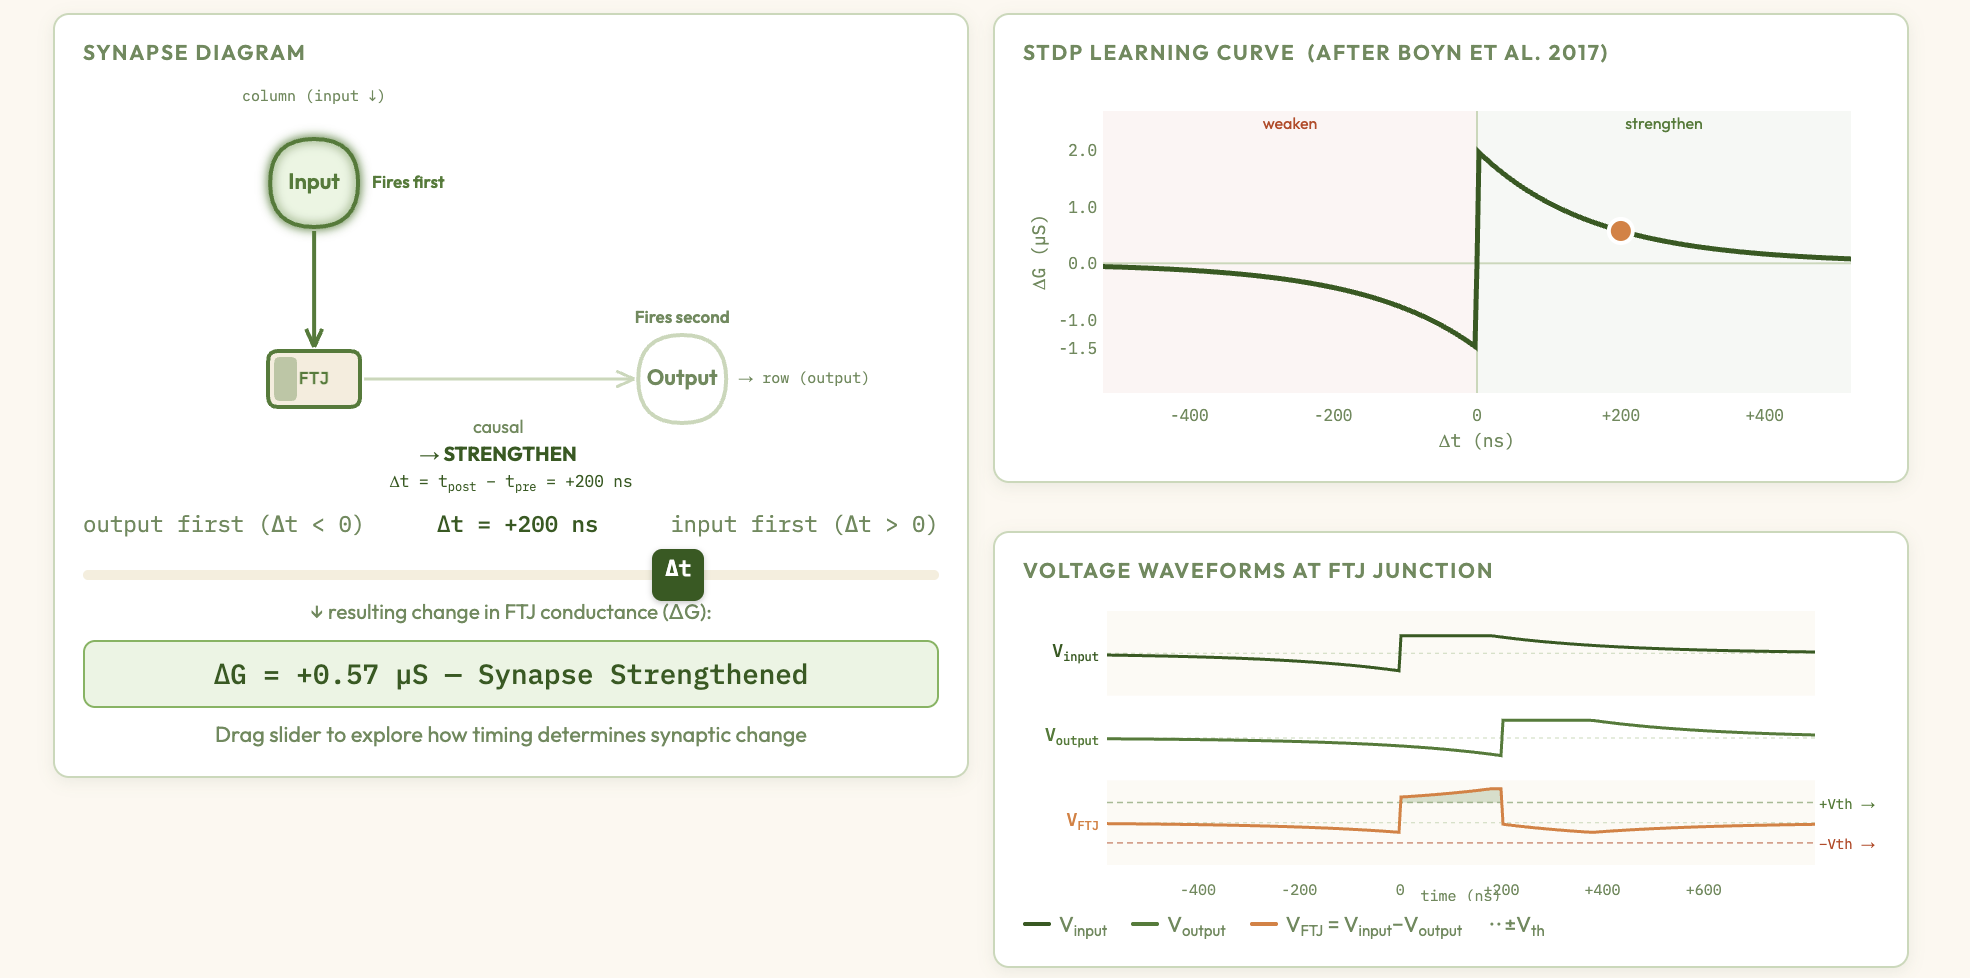
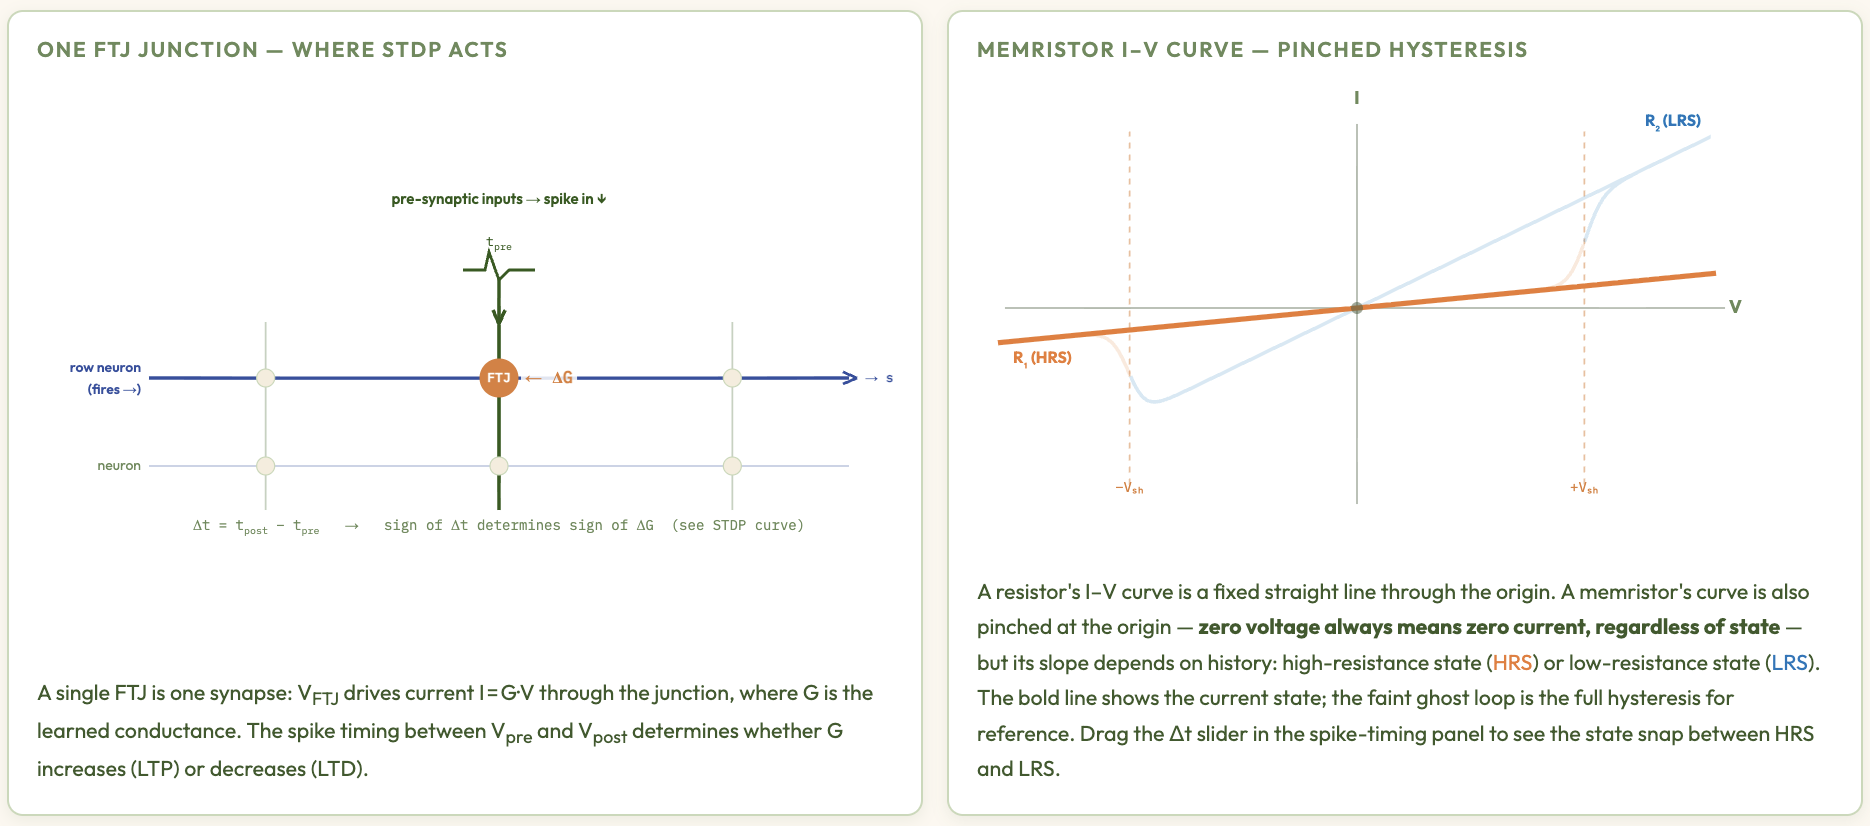
Update memristor preview image.

diff --git a/memristors/memristor_stdp_array.html b/memristors/memristor_stdp_array.html
@@ -11,8 +11,8 @@
 <meta property="og:title" content="Ferroelectric Memristor Synapses &amp; Crossbar Learning — interactive explainer">
 <meta property="og:description" content="Explore how ferroelectric memristor synapses in a crossbar array implement Spike-Timing-Dependent Plasticity (STDP) — adjust pulse timings, device parameters, and network architecture to watch Hebbian learning emerge from nanoscale physics.">
 <meta property="og:image" content="https://tpavlic.github.io/asu-bioinspired-ai-and-optimization/memristors/memristor_stdp_array-preview.png">
-<meta property="og:image:width" content="1970">
-<meta property="og:image:height" content="978">
+<meta property="og:image:width" content="1870">
+<meta property="og:image:height" content="826">
 <meta property="og:url" content="https://tpavlic.github.io/asu-bioinspired-ai-and-optimization/memristors/memristor_stdp_array.html">
 <meta property="fb:app_id" content="2385695445236853">
 
